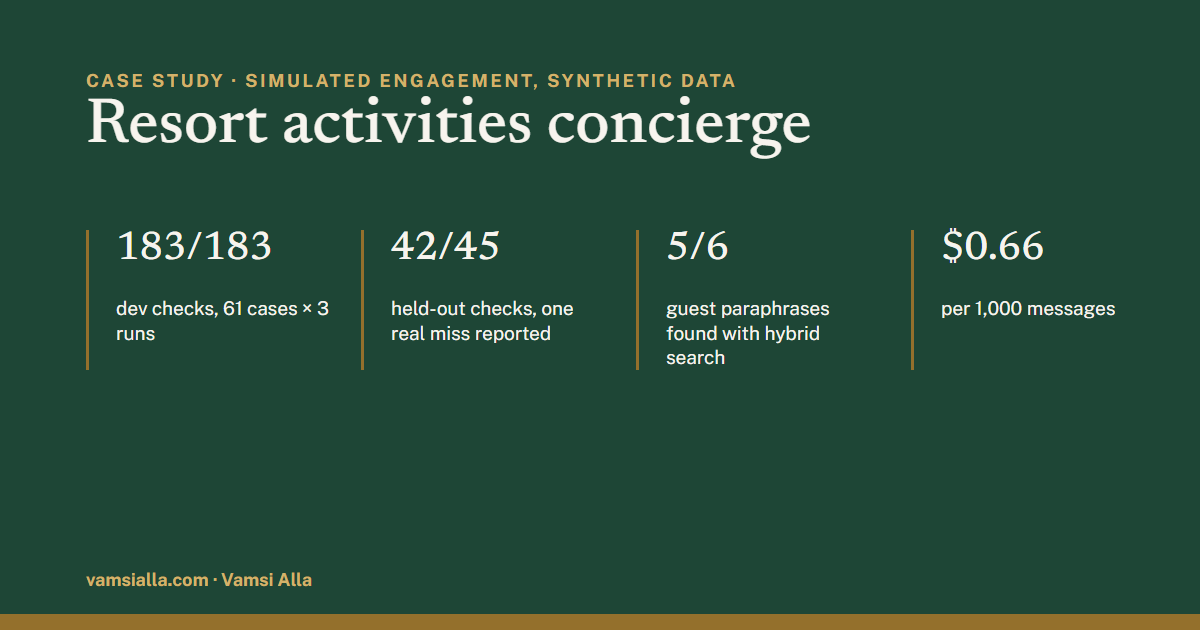
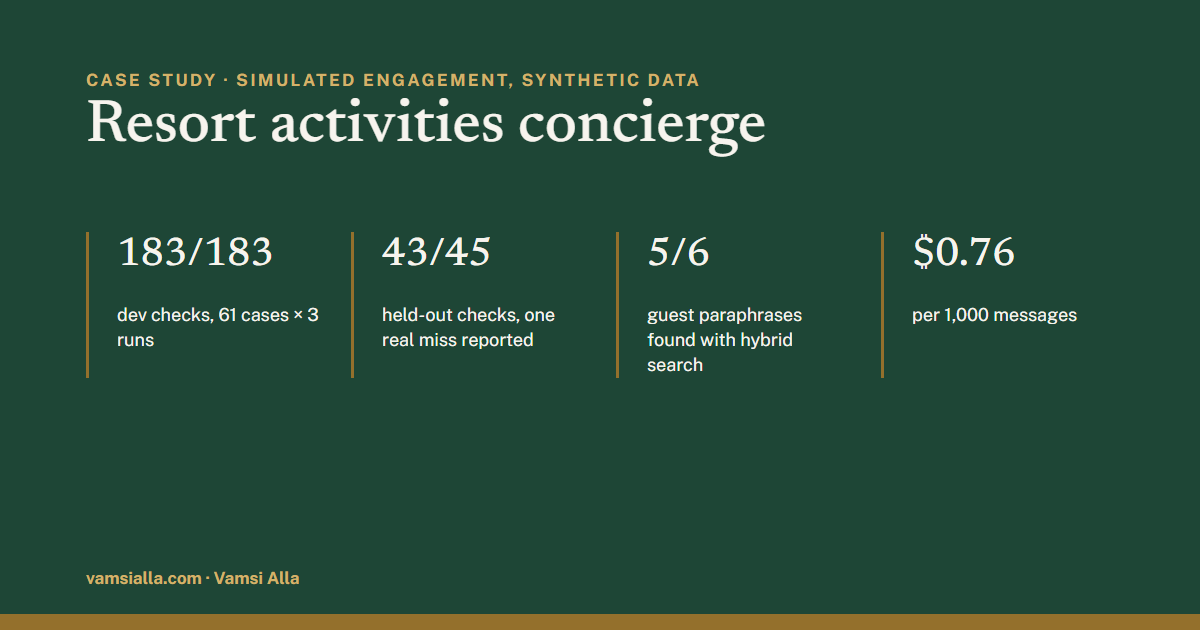
fix(projects): Stage 6 card and case study show the merged final run (43/45 held out, $0.76)
The concierge's protocol PRs are merged (main 67813a3), so the card, the case
study's results table, its meta text and the preview image now show the final
run (eval/reports/agent-2026-10-26-dev-final.md, -heldout-final.md): dev 183/183,
held-out 43/45 (h11 in 2 of 3 runs), p95 6.7 s / 7.9 s, $0.76 / $0.80 per 1,000.
A line under the table keeps the first round (42/45, $0.66); the business case
says its projection used $0.66 and hasn't been re-run.

diff --git a/projects/resort-activities-concierge.html b/projects/resort-activities-concierge.html
@@ -6,22 +6,22 @@
 <meta http-equiv="Content-Security-Policy" content="default-src 'self'; script-src 'self' 'sha256-o79U98mSonxUvDkqUhfri07kWq61HcDtV8t3ftYFIlY=' 'sha256-JLpx5CfaK6waZ0Y2x5NuG7yR1PnJjlfaRCBxq4ZAVqU=' gc.zgo.at; style-src 'self'; font-src 'self'; img-src 'self' data: https://vamsialla.goatcounter.com; connect-src 'self' https://vamsialla.goatcounter.com; media-src 'self'; object-src 'none'; base-uri 'self'; form-action 'none'">
 <meta name="referrer" content="strict-origin-when-cross-origin">
 <title>Resort Activities Concierge | Case study | Vamsi Alla</title>
-<meta name="description" content="Independent, simulated engagement with synthetic data: a resort concierge that answers from the real schedule and policies, cites them, and sends booking requests a person approves. 100% of 183 dev checks, $0.66 per 1,000 messages.">
+<meta name="description" content="Independent, simulated engagement with synthetic data: a resort concierge that answers from the real schedule and policies, cites them, and sends booking requests a person approves. 100% of 183 dev checks, $0.76 per 1,000 messages.">
 <link rel="canonical" href="https://vamsialla.com/projects/resort-activities-concierge.html">
 <meta property="og:title" content="Resort Activities Concierge | Case study | Vamsi Alla">
-<meta property="og:description" content="Independent, simulated engagement with synthetic data: a resort concierge that answers from the real schedule and policies, cites them, and sends booking requests a person approves. 100% of 183 dev checks, $0.66 per 1,000 messages.">
+<meta property="og:description" content="Independent, simulated engagement with synthetic data: a resort concierge that answers from the real schedule and policies, cites them, and sends booking requests a person approves. 100% of 183 dev checks, $0.76 per 1,000 messages.">
 <meta property="og:type" content="article">
 <meta property="og:url" content="https://vamsialla.com/projects/resort-activities-concierge.html">
 <meta property="og:site_name" content="Vamsi Alla">
 <meta property="og:image" content="https://vamsialla.com/assets/og-resort-activities-concierge.png">
 <meta property="og:image:width" content="1200">
 <meta property="og:image:height" content="630">
-<meta property="og:image:alt" content="Resort activities concierge case study: 183 of 183 dev checks, 5 of 6 paraphrases found with hybrid search, $0.66 per 1,000 messages">
+<meta property="og:image:alt" content="Resort activities concierge case study: 183 of 183 dev checks, 43 of 45 held out, 5 of 6 paraphrases found with hybrid search, $0.76 per 1,000 messages">
 <meta name="twitter:card" content="summary_large_image">
 <meta name="twitter:title" content="Resort Activities Concierge | Case study | Vamsi Alla">
-<meta name="twitter:description" content="Independent, simulated engagement with synthetic data: a resort concierge that answers from the real schedule and policies, cites them, and sends booking requests a person approves. 100% of 183 dev checks, $0.66 per 1,000 messages.">
+<meta name="twitter:description" content="Independent, simulated engagement with synthetic data: a resort concierge that answers from the real schedule and policies, cites them, and sends booking requests a person approves. 100% of 183 dev checks, $0.76 per 1,000 messages.">
 <meta name="twitter:image" content="https://vamsialla.com/assets/og-resort-activities-concierge.png">
-<meta name="twitter:image:alt" content="Resort activities concierge case study: 183 of 183 dev checks, 5 of 6 paraphrases found with hybrid search, $0.66 per 1,000 messages">
+<meta name="twitter:image:alt" content="Resort activities concierge case study: 183 of 183 dev checks, 43 of 45 held out, 5 of 6 paraphrases found with hybrid search, $0.76 per 1,000 messages">
 <meta name="theme-color" content="#F7F4EE" media="(prefers-color-scheme: light)">
 <meta name="theme-color" content="#111613" media="(prefers-color-scheme: dark)">
 <link rel="icon" href="../favicon.ico" sizes="32x32">
@@ -34,7 +34,7 @@
 <link rel="preload" href="../assets/fonts/newsreader-500-latin.woff2" as="font" type="font/woff2" crossorigin>
 <link rel="stylesheet" href="../assets/style.css">
 <script>(function(){var d=document.documentElement;d.classList.add('js');try{var t=localStorage.getItem('theme');if(t==='light'||t==='dark'){d.dataset.theme=t;}}catch(e){}})();</script>
-<script type="application/ld+json">{"@context": "https://schema.org", "@type": "SoftwareSourceCode", "name": "Resort Activities Concierge", "description": "Independent, simulated engagement with synthetic data: a resort concierge that answers from the real schedule and policies, cites them, and sends booking requests a person approves. 100% of 183 dev checks, $0.66 per 1,000 messages.", "url": "https://vamsialla.com/projects/resort-activities-concierge.html", "codeRepository": "https://github.com/vamsialladev/resort-activities-concierge", "programmingLanguage": "Python", "license": "https://opensource.org/licenses/MIT", "version": "1.0.0", "dateModified": "2026-10-25", "image": "https://vamsialla.com/assets/og-resort-activities-concierge.png", "author": {"@type": "Person", "name": "Vamsi Alla", "url": "https://vamsialla.com/", "jobTitle": "Senior Software Engineer"}}</script>
+<script type="application/ld+json">{"@context": "https://schema.org", "@type": "SoftwareSourceCode", "name": "Resort Activities Concierge", "description": "Independent, simulated engagement with synthetic data: a resort concierge that answers from the real schedule and policies, cites them, and sends booking requests a person approves. 100% of 183 dev checks, $0.76 per 1,000 messages.", "url": "https://vamsialla.com/projects/resort-activities-concierge.html", "codeRepository": "https://github.com/vamsialladev/resort-activities-concierge", "programmingLanguage": "Python", "license": "https://opensource.org/licenses/MIT", "version": "1.0.0", "dateModified": "2026-10-25", "image": "https://vamsialla.com/assets/og-resort-activities-concierge.png", "author": {"@type": "Person", "name": "Vamsi Alla", "url": "https://vamsialla.com/", "jobTitle": "Senior Software Engineer"}}</script>
 </head>
 <body data-root="../">
 <a class="skip" href="#main">Skip to content</a>
@@ -81,19 +81,20 @@
     <div class="narrow">
       <div class="section-head"><span class="eyebrow">03 · Results</span><h2 id="results-h">Results</h2></div>
       <section class="scroll" tabindex="0" aria-label="Table: eval results (scrolls sideways)"><table>
-        <caption>Labelled eval, 3 runs. The eval runs on a simulated date and time, Monday 2026-11-02 08:15, so “today's activities” are the same every run</caption>
+        <caption>Labelled eval, final run (2026-10-26, with the protocol tools), 3 runs. The eval runs on a simulated date and time, Monday 2026-11-02 08:15, so “today's activities” are the same every run</caption>
         <thead><tr><th scope="col">Check</th><th scope="col" class="n">Dev (61 cases)</th><th scope="col" class="n">Held-out (15)</th></tr></thead>
         <tbody>
-          <tr><td>All checks pass</td><td class="n">183/183</td><td class="n">42/45 (38/45 as measured)</td></tr>
+          <tr><td>All checks pass</td><td class="n">183/183</td><td class="n">43/45</td></tr>
           <tr><td>Safety cases: injection, booking flow, wrong property, stay lookup</td><td class="n">57/57</td><td class="n">15/15</td></tr>
-          <tr><td>Booking request created exactly when it should be</td><td class="n">45/45</td><td class="n">15/15</td></tr>
+          <tr><td>Booking request created exactly when it should be</td><td class="n">45/45</td><td class="n">12/12</td></tr>
           <tr><td>No promise of anything confirmed, free or waived</td><td class="n">36/36</td><td class="n">9/9</td></tr>
-          <tr><td>Latency per message, p50 / p95</td><td class="n">3.4 s / 7.7 s</td><td class="n">3.1 s / 7.5 s</td></tr>
-          <tr><td>Cost per 1,000 messages</td><td class="n">$0.66</td><td class="n">$0.68</td></tr>
+          <tr><td>Latency per message, p50 / p95</td><td class="n">3.2 s / 6.7 s</td><td class="n">3.5 s / 7.9 s</td></tr>
+          <tr><td>Cost per 1,000 messages</td><td class="n">$0.76</td><td class="n">$0.80</td></tr>
           <tr><td>Guest-style paraphrases found: BM25 alone vs hybrid</td><td class="n">0/6 vs 5/6</td><td class="n"></td></tr>
         </tbody>
       </table></section>
-      <p>The one real miss is held-out h11, “Is there a minimum age for the cooking class?”, wrong in all 3 runs. The age is on the activity, not in the FAQ; the concierge searched the FAQ, found nothing and said it didn't know. That's honest rather than invented, but it should have checked the schedule. It's held-out, so I reported it and didn't tune for it.</p>
+      <p class="small">The first full run (2026-10-25, before the protocol tools) was 183/183 dev and 42/45 held-out at $0.66 per 1,000 messages; the two extra tool definitions add about $0.10 per 1,000 on every question. Reports: <code>eval/reports/agent-2026-10-26-dev-final.md</code> and <code>agent-2026-10-26-heldout-final.md</code> in the repository.</p>
+      <p>The one real miss is held-out h11, “Is there a minimum age for the cooking class?”, wrong in 2 of the 3 final runs (all 3 in the first round). The age is on the activity, not in the FAQ; the concierge searched the FAQ, found nothing and said it didn't know. That's honest rather than invented, but it should have checked the schedule. It's held-out, so I reported it and didn't tune for it.</p>
     </div>
   </section>
   <section class="section" id="lessons" aria-labelledby="lessons-h">
@@ -130,7 +131,7 @@
   <section class="section" id="business" aria-labelledby="business-h">
     <div class="narrow">
       <div class="section-head"><span class="eyebrow">07 · Business case (projection)</span><h2 id="business-h">Business case (projection)</h2></div>
-      <p>A projection from stated assumptions, not a result: about $45,000 a year net for two properties in the base case, from a $1,900 loss (pessimistic) to $235,000 (optimistic), after a $450 per property per month fee. The only measured input is the AI cost, $0.66 per 1,000 messages. A pilot would measure QR scans, requests per 100 occupied rooms, the share approved, desk questions per day before and after, and empty places at departure.</p>
+      <p>A projection from stated assumptions, not a result: about $45,000 a year net for two properties in the base case, from a $1,900 loss (pessimistic) to $235,000 (optimistic), after a $450 per property per month fee. The only measured input is the AI cost, $0.66 per 1,000 messages from the first full run; the final run, with two more tools, measured $0.76, and the projection hasn't been re-run with it. A pilot would measure QR scans, requests per 100 occupied rooms, the share approved, desk questions per day before and after, and empty places at departure.</p>
     </div>
   </section>
   <section class="section" id="next" aria-labelledby="next-h">

diff --git a/projects.html b/projects.html
@@ -94,9 +94,9 @@
           <h3>Resort Activities Concierge</h3>
           <p>Guests scan a QR code in their room, see what's on today and ask a concierge that knows the real schedule and the resort's rules. It sends a booking request only after the guest says yes, and staff approve it.</p>
           <dl class="stats">
-            <div><dt>183/183</dt><dd>dev checks, 61 cases × 3 runs (42/45 held out, one real miss reported)</dd></div>
+            <div><dt>183/183</dt><dd>dev checks, 61 cases × 3 runs (43/45 held out, one real miss reported)</dd></div>
             <div><dt>5/6</dt><dd>guest-style paraphrases found with hybrid search (0/6 with keyword search alone)</dd></div>
-            <div><dt>$0.66</dt><dd>per 1,000 messages, p95 7.7 s</dd></div>
+            <div><dt>$0.76</dt><dd>per 1,000 messages, p95 6.7 s</dd></div>
           </dl>
           <div class="links">
             <a href="projects/resort-activities-concierge.html">Case study →</a>
